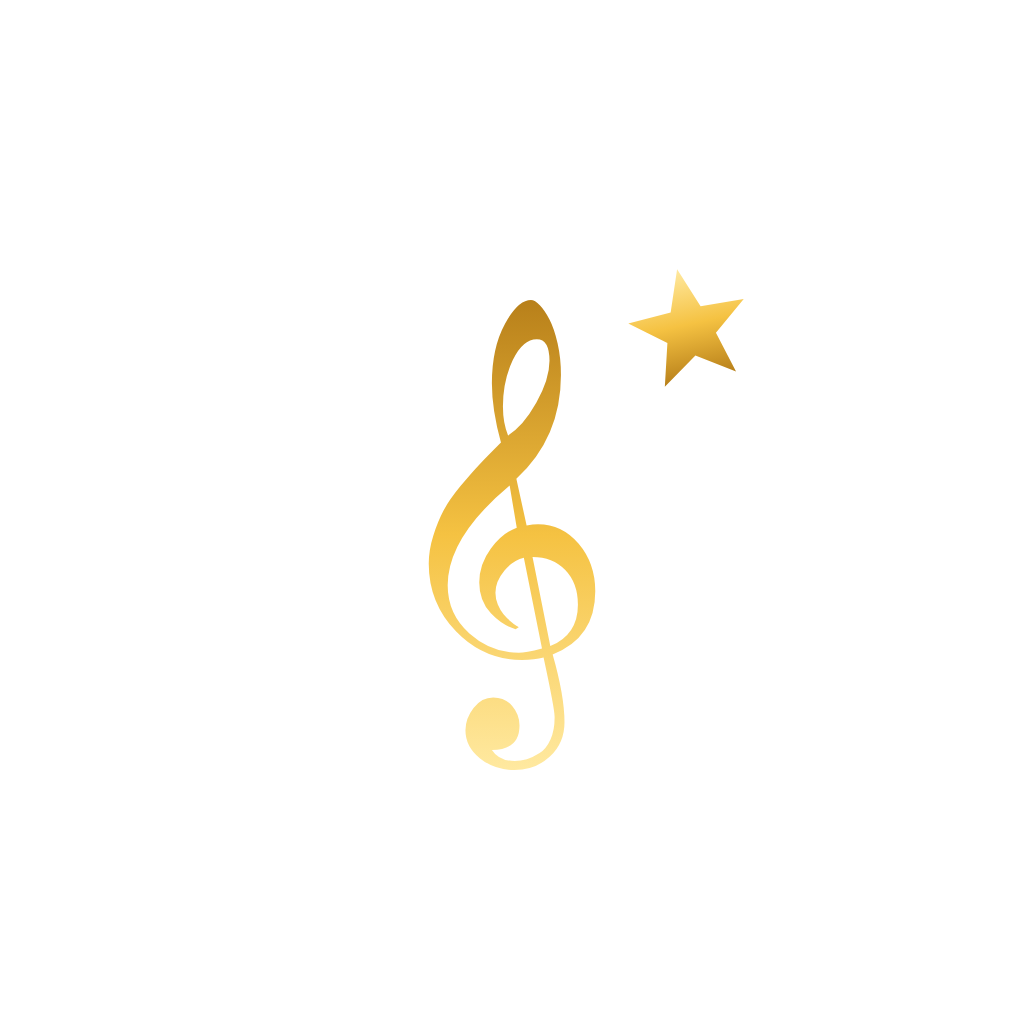
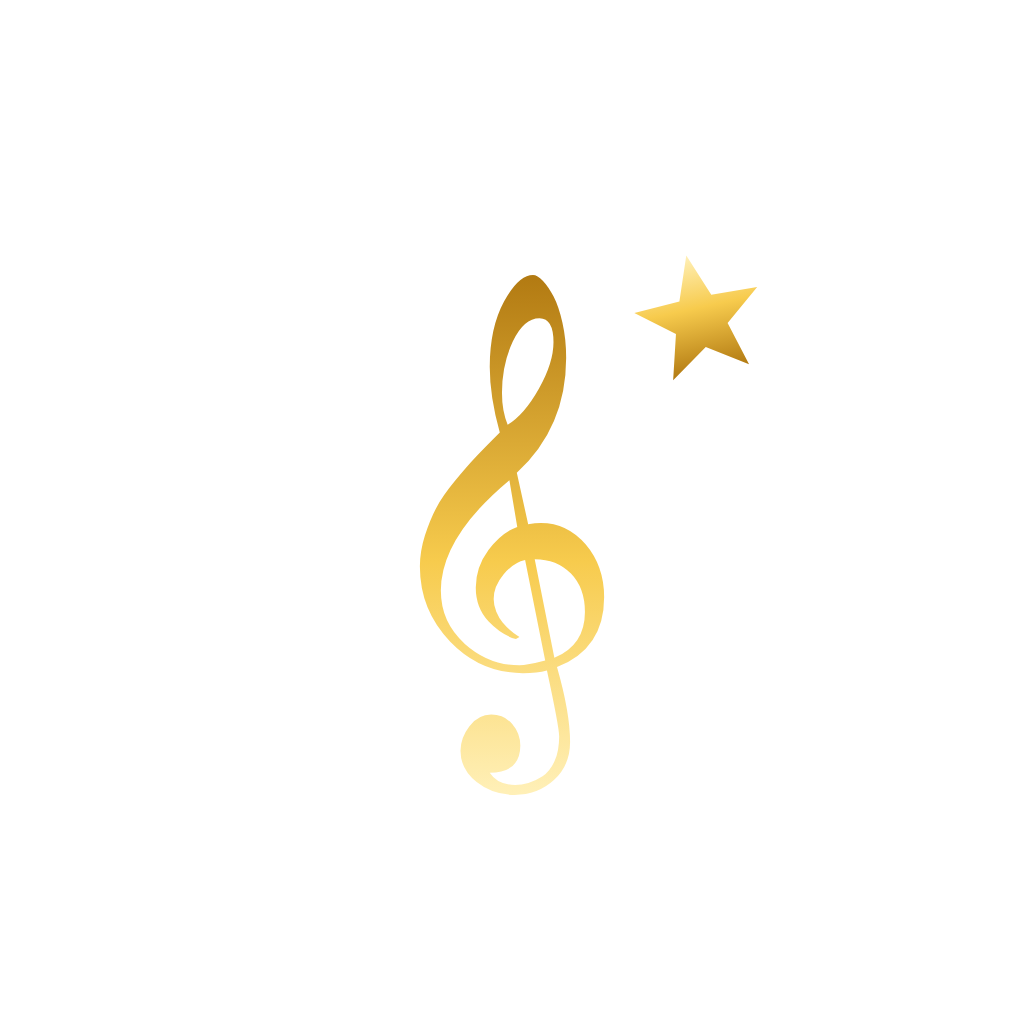
Clan music: capa e ícone dourado e preto, nova tela inicial com abas, ações rápidas, gravar ideia e fases das músicas
Claude-Session: https://claude.ai/code/session_01LArP6XDCS92Gp9j3nmqKYc

diff --git a/musica/index.html b/musica/index.html
@@ -4,16 +4,16 @@
 <meta charset="utf-8">
 <title>Clan music</title>
 <meta name="viewport" content="width=device-width, initial-scale=1, viewport-fit=cover">
-<link rel="manifest" href="manifest.webmanifest"><link rel="icon" href="icon.svg"><link rel="apple-touch-icon" href="icons/apple-touch-icon.png"><meta name="theme-color" content="#F7F4FC">
+<link rel="manifest" href="manifest.webmanifest"><link rel="icon" href="icon.svg"><link rel="apple-touch-icon" href="icons/apple-touch-icon.png"><meta name="theme-color" content="#09090B">
 
 <style>
 @font-face{font-family:"Bricolage";src:url(fonts/bricolage-grotesque-latin-wght-normal.woff2) format("woff2");font-weight:200 800;font-display:swap}
 @font-face{font-family:"JBMono";src:url(fonts/jetbrains-mono-latin-400-normal.woff2) format("woff2");font-weight:400;font-display:swap}
 @font-face{font-family:"JBMono";src:url(fonts/jetbrains-mono-latin-700-normal.woff2) format("woff2");font-weight:700;font-display:swap}
-:root{--bg:#F7F4FC;--card:#FFFFFF;--ink:#1A1030;--mute:#6A6285;--line:#E4DDF2;--chord:#8A4F00;--acc:#3B1A7A;--accT:#FFFFFF;--hl:#F5C242;--hlT:#2A1A00;--rec:#E5484D;--danger:#C0322F;
+:root{--bg:#FAF7EF;--card:#FFFFFF;--ink:#14110A;--mute:#6D6552;--line:#E9E1CB;--chord:#8A5A00;--acc:#14110A;--accT:#F5C242;--hl:#F5C242;--hlT:#2A1A00;--rec:#E5484D;--danger:#C0322F;
 --ui:"Bricolage",system-ui,-apple-system,"Segoe UI",Roboto,sans-serif;--mono:"JBMono",ui-monospace,Menlo,Consolas,monospace;
 box-sizing:border-box;padding-top:env(safe-area-inset-top,0px)}
-@media (prefers-color-scheme:dark){:root{--bg:#0C0615;--card:#171028;--ink:#F3EEFF;--mute:#A79BC4;--line:#2E2250;--chord:#F5C242;--acc:#F5C242;--accT:#1A1030;--rec:#FF6B70;--danger:#FF8A80}}
+@media (prefers-color-scheme:dark){:root{--bg:#09090B;--card:#151417;--ink:#F6F1E4;--mute:#A39C8A;--line:#2A2619;--chord:#F5C242;--acc:#F5C242;--accT:#14110A;--rec:#FF6B70;--danger:#FF8A80}}
 *{box-sizing:border-box;-webkit-tap-highlight-color:transparent}
 html,body{margin:0;background:var(--bg);color:var(--ink);font:400 16px/1.45 var(--ui)}
 #app{max-width:620px;margin:0 auto;padding:0 16px 120px}
@@ -129,18 +129,18 @@ details.card2>summary{cursor:pointer;list-style:none}details.card2>summary::-web
 .code2{font:700 24px var(--mono);text-align:center;padding:16px 8px;margin:10px 0;background:var(--bg);border:1px dashed var(--line);border-radius:12px;word-break:break-all;user-select:all}
 
 /* visual 2.0 */
-body{background:radial-gradient(120% 60% at 50% -10%,color-mix(in srgb,var(--acc) 9%,transparent),transparent 60%) no-repeat,var(--bg)}
+body{background:var(--bg)}
 .brand{display:flex;align-items:center;gap:10px;font-size:31px;white-space:nowrap}.brand .mk{height:40px;width:auto;flex:0 0 auto;filter:drop-shadow(0 2px 6px rgba(245,194,66,.35))}
 .songs{display:flex;flex-direction:column;gap:10px}
-.songs>.song,.rrow>.song{background:var(--card);border:1px solid var(--line);border-radius:18px;padding:12px 14px;box-shadow:0 1px 2px rgba(40,10,90,.05)}
+.songs>.song,.rrow>.song{background:var(--card);border:1px solid var(--line);border-radius:18px;padding:12px 14px;box-shadow:0 1px 2px rgba(0,0,0,.05)}
 .song.now{border-color:var(--hl)}
 .key{transform:none;border-radius:11px;background:linear-gradient(135deg,#FFE9A0,#F5C242);box-shadow:inset 0 -2px 0 rgba(120,70,0,.18);min-width:52px}
-.seg{border-radius:16px;box-shadow:0 1px 2px rgba(40,10,90,.05)}.seg button{border-radius:12px;padding:10px 4px}
-.card2{background:var(--card);border:1px solid var(--line);border-radius:20px;padding:16px;margin:12px 0;box-shadow:0 1px 2px rgba(40,10,90,.05)}
+.seg{border-radius:16px;box-shadow:0 1px 2px rgba(0,0,0,.05)}.seg button{border-radius:12px;padding:10px 4px}
+.card2{background:var(--card);border:1px solid var(--line);border-radius:20px;padding:16px;margin:12px 0;box-shadow:0 1px 2px rgba(0,0,0,.05)}
 .card2.hero{background:linear-gradient(160deg,color-mix(in srgb,var(--hl) 16%,var(--card)),var(--card) 60%)}
-.cta{background:linear-gradient(135deg,var(--acc),color-mix(in srgb,var(--acc) 70%,#7B3FE4));box-shadow:0 12px 30px rgba(59,26,122,.35)}
+.cta{background:var(--acc);color:var(--accT);bottom:calc(92px + env(safe-area-inset-bottom,0px));box-shadow:0 12px 30px rgba(0,0,0,.35)}
 @media (prefers-color-scheme:dark){.cta{background:linear-gradient(135deg,#FFE9A0,#F5C242);box-shadow:0 12px 30px rgba(0,0,0,.5)}}
-.nav{left:10px;right:10px;bottom:calc(8px + env(safe-area-inset-bottom,0px));border:1px solid var(--line);border-radius:22px;padding-bottom:0;box-shadow:0 10px 30px rgba(40,10,90,.18);max-width:600px;margin:0 auto;overflow:hidden}
+.nav{left:10px;right:10px;bottom:calc(8px + env(safe-area-inset-bottom,0px));border:1px solid var(--line);border-radius:22px;padding-bottom:0;box-shadow:0 10px 30px rgba(0,0,0,.18);max-width:600px;margin:0 auto;overflow:hidden}
 .nav button.on::before{top:0;height:3px;background:var(--hl)}
 .savebar{bottom:calc(84px + env(safe-area-inset-bottom,0px))}
 button.pri{box-shadow:0 4px 14px color-mix(in srgb,var(--acc) 30%,transparent)}button:disabled{opacity:.45}
@@ -154,6 +154,24 @@ button.pri{box-shadow:0 4px 14px color-mix(in srgb,var(--acc) 30%,transparent)}b
 .pbody pre.view{border:0;background:none;padding:0;margin:0;min-height:0;line-height:1.55;white-space:pre}
 .pctl{padding:10px 12px calc(10px + env(safe-area-inset-bottom,0px));border-top:1px solid var(--line);background:var(--card)}
 .pctl .row{gap:6px;justify-content:space-between}.pctl .ic{min-width:44px;min-height:44px;font:700 15px var(--ui)}.pctl input[type=range]{flex:1;padding:0;border:0;background:none}
+
+/* início e topo preto e dourado */
+.hero2{margin:0 -16px 14px;padding:calc(18px + env(safe-area-inset-top,0px)) 18px 18px;background:radial-gradient(90% 120% at 100% 0,rgba(245,194,66,.28),transparent 60%),linear-gradient(160deg,#050505,#171106);color:#F7D774;border-radius:0 0 28px 28px}
+.hero2 .brand{color:#F7D774;font-size:27px}.hero2 .hi{margin:12px 0 10px;font:700 22px/1.2 var(--ui);color:#FFF6DC}
+.hero2 .stats{display:flex;gap:18px;color:#CDBE94;font-size:14px}.hero2 .stats b{color:#F7D774;font:700 18px var(--mono);margin-right:3px}
+button.gh{background:rgba(255,255,255,.07);border-color:rgba(245,194,66,.35);color:#F7D774}.hero2 .dot{border-color:#14110A}
+.ov{display:block;color:var(--mute);font-size:13px;margin-bottom:8px;letter-spacing:.2px}
+.cont .big{display:flex;flex-direction:column;align-items:flex-start;gap:2px;width:100%;text-align:left;border:0;background:none;padding:0}.cont .big b{font-size:26px;line-height:1.15}.cont .big span{color:var(--mute);font-size:15px}
+.chips2{display:flex;gap:6px;flex-wrap:wrap;margin-top:10px}.chips2 span{font-size:13px;padding:4px 10px;border-radius:999px;background:var(--bg);border:1px solid var(--line);color:var(--mute)}.chips2 span.ok{color:var(--ink);border-color:var(--hl);background:color-mix(in srgb,var(--hl) 20%,var(--card))}
+.qa{display:grid;grid-template-columns:1fr 1fr;gap:10px;margin:12px 0}.qa button{display:flex;flex-direction:column;align-items:flex-start;gap:2px;text-align:left;padding:14px;border-radius:20px;min-height:104px}.qa button span{line-height:0;margin-bottom:8px}.qa button span .i{width:26px;height:26px}.qa b{font-size:16px}.qa small{color:var(--mute);font-size:13px}
+.qa button.gold{background:linear-gradient(145deg,#FFE9A0,#F5C242 60%,#D9A21F);border-color:#D9A21F;color:#2A1A00}.qa button.gold small{color:#5A3E00}
+button{white-space:nowrap}
+h2.sec{font:700 18px var(--ui);margin:20px 2px 8px}
+.fch{margin:0 0 10px;flex-wrap:nowrap;overflow-x:auto;padding-bottom:2px}.fch button{white-space:nowrap;padding:8px 14px;font-size:14px}.fch button.on{background:var(--acc);color:var(--accT);border-color:var(--acc);font-weight:700}
+.fz{display:inline-block;width:8px;height:8px;border-radius:50%;margin:0 5px 0 0;background:var(--mute)}.fz-ideia{background:#4DA3FF}.fz-compondo{background:#F5C242}.fz-pronta{background:#34C27A}
+.hn{max-width:560px}.pbar{bottom:calc(74px + env(safe-area-inset-bottom,0px))}
+#app:has(.hn){padding-bottom:150px}#app:has(#pbar){padding-bottom:330px}
+.hn button.on::before{background:var(--hl)}
 </style>
 </head>
 <body>
@@ -225,43 +243,65 @@ const IC={
  audio:'<svg class="i" viewBox="0 0 24 24"><path d="M6 4v16M12 4v16M18 4v16"/><circle cx="6" cy="9" r="2" fill="var(--card)"/><circle cx="12" cy="15" r="2" fill="var(--card)"/><circle cx="18" cy="8" r="2" fill="var(--card)"/></svg>'};
 const SRok=!!(window.SpeechRecognition||window.webkitSpeechRecognition);
 
-function rows(){const f=songs.filter(s=>!s.outro).filter(s=>((s.title||'')+' '+(s.artist||'')).toLowerCase().includes(q.toLowerCase())).sort((a,b)=>b.upd-a.upd);
+const MARK='<svg class="mk" viewBox="0 0 560 1200" aria-hidden="true"><defs><linearGradient id="mg" x1="0" y1="0" x2="0" y2="1"><stop offset="0" stop-color="#FFF0B8"/><stop offset=".5" stop-color="#F7CB4D"/><stop offset="1" stop-color="#B27A12"/></linearGradient></defs><g transform="translate(-100,920) scale(1,-1)" fill="url(#mg)"><path d="M434 2Q464 -103 464 -170Q464 -223 427.0 -257.0Q390 -291 337 -291Q287 -291 250.0 -261.5Q213 -232 213 -190Q213 -160 233.5 -133.5Q254 -107 283.5 -107.0Q313 -107 331.5 -128.5Q350 -150 350 -178Q350 -240 280 -240Q298 -268 338 -268Q353 -268 368.5 -263.5Q384 -259 401.0 -248.0Q418 -237 428.5 -213.5Q439 -190 439 -157Q439 -136 411 -6Q389 -12 356 -12Q259 -12 189.5 60.0Q120 132 120 232Q120 267 131.5 303.0Q143 339 157.5 366.5Q172 394 200.5 428.5Q229 463 248.5 483.5Q268 504 303 539Q280 621 280 689Q280 779 313.0 839.5Q346 900 379 900Q389 900 401.5 887.0Q414 874 426.0 851.0Q438 828 446.5 790.5Q455 753 455 710Q455 551 342 447L368 329Q384 332 397 332Q458 332 500.0 282.5Q542 233 542 162Q542 44 434 2ZM426 746Q426 801 394 801Q358 801 333.0 748.0Q308 695 308 630Q308 588 321 557Q359 580 392.5 639.5Q426 699 426 746ZM498 128Q498 183 466.0 216.0Q434 249 383 249L428 23Q498 52 498 128ZM407 17 361 247Q334 241 311.5 214.0Q289 187 289 158Q289 143 295.0 128.5Q301 114 309.5 104.0Q318 94 327.0 86.0Q336 78 342.0 74.5Q348 71 348 71L340 66Q307 75 277.5 106.0Q248 137 248 184Q248 231 277.5 270.5Q307 310 343 323L325 430Q168 299 168 177Q168 104 223.0 55.0Q278 6 348 6Q365 6 407 17Z"/></g></svg>';
+IC.home='<svg class="i" viewBox="0 0 24 24"><path d="M4 11l8-7 8 7v9h-5v-6H9v6H4z"/></svg>';
+IC.notes='<svg class="i" viewBox="0 0 24 24"><path d="M9 18V6l10-2v12"/><circle cx="6.5" cy="18" r="2.5"/><circle cx="16.5" cy="16" r="2.5"/></svg>';
+IC.mic2='<svg class="i" viewBox="0 0 24 24"><rect x="9" y="3" width="6" height="11" rx="3"/><path d="M5 11a7 7 0 0 0 14 0M12 18v3"/></svg>';
+const FASES=[['ideia','Ideia'],['compondo','Compondo'],['pronta','Pronta']];let fq='';
+const faseNome=f=>(FASES.find(x=>x[0]===f)||[,''])[1];
+const hello=()=>{const h=new Date().getHours();return h<5?'Boa madrugada':h<12?'Bom dia':h<18?'Boa tarde':'Boa noite'};
+const ago=t=>{const m=Math.round((Date.now()-t)/60000);return m<2?'agora há pouco':m<60?'há '+m+' min':m<1440?'há '+Math.round(m/60)+' h':m<2880?'ontem':'há '+Math.round(m/1440)+' dias'};
+function quickIdea(){const d=new Date(),s=newSong('Ideia '+d.toLocaleDateString('pt-BR',{day:'2-digit',month:'2-digit'})+' '+d.toTimeString().slice(0,5),'');s.fase='ideia';s.auto=true;songs.push(s);put(s);cur=s;tab='estudio';shift=0;edit=false;song();setTimeout(()=>{try{studioRec()}catch(e){}},60)}
+function newBlank(){cur=newSong('','');cur.fase='compondo';songs.push(cur);put(cur);tab='cifra';shift=0;edit=true;song()}
+function openSong(id,t){cur=songs.find(s=>s.id===id);tab=t||'cifra';shift=0;edit=!(cur.cifra||'').trim();song()}
+const songRow=s=>`<button class="song" data-id="${s.id}"><span class="key">${esc(s.key||'C')}${s.mode==='m'?'m':''}</span><span class="info"><b>${esc(s.title)||'Sem título'}</b><small>${esc(s.artist)||'Sem artista'}${s.fase?' · <i class="fz fz-'+s.fase+'"></i>'+faseNome(s.fase):''}</small></span>${s.audios.length?`<span class="tag">${s.audios.length} ${s.audios.length===1?'faixa':'faixas'}</span>`:''}</button>`;
+function bindRows(){document.querySelectorAll('.song[data-id]').forEach(b=>b.onclick=()=>openSong(b.dataset.id))}
+function rows(){const f=songs.filter(s=>!s.outro).filter(s=>!fq||s.fase===fq).filter(s=>((s.title||'')+' '+(s.artist||'')).toLowerCase().includes(q.toLowerCase())).sort((a,b)=>b.upd-a.upd);
  const box=$('#rows');if(!box)return;
- box.innerHTML=f.map(s=>`<button class="song" data-id="${s.id}"><span class="key">${esc(s.key||'C')}${s.mode==='m'?'m':''}</span><span class="info"><b>${esc(s.title)||'Sem título'}</b><small>${esc(s.artist)||'Sem artista'}</small></span>${s.audios.length?`<span class="tag">${s.audios.length} ${s.audios.length===1?'faixa':'faixas'}</span>`:''}</button>`).join('')||(songs.length?'<p class="empty">Nada encontrado para essa busca.</p>':'');
- document.querySelectorAll('.song').forEach(b=>b.onclick=()=>{cur=songs.find(s=>s.id===b.dataset.id);tab='cifra';shift=0;edit=!(cur.cifra||'').trim();song()})}
+ box.innerHTML=f.map(songRow).join('')||(songs.some(s=>!s.outro)?'<p class="empty">Nada encontrado.</p>':'');bindRows()}
+function iniHome(my){const S=setList(),L=[...my].sort((a,b)=>b.upd-a.upd),c=L[0];
+ const part=c?[['Cifra',(c.cifra||'').trim()],['Letra',(c.letra||'').trim()],['Gravação',c.audios.length]]:[];
+ const andamento=L.filter(s=>s.fase==='compondo'&&s!==c).slice(0,4),ideias=L.filter(s=>s.fase==='ideia'&&s!==c).slice(0,4);
+ return `${c?`<section class="card2 cont"><small class="ov">Continuar de onde parou</small><button class="big" data-id="${c.id}"><b>${esc(c.title)||'Sem título'}</b><span>${esc(c.artist)||'Sem artista'} · ${esc(c.key||'C')}${c.mode==='m'?'m':''} · ${ago(c.upd)}</span></button><div class="chips2">${part.map(x=>`<span class="${x[1]?'ok':''}">${x[1]?'✓':'○'} ${x[0]}${x[0]==='Gravação'&&x[1]>1?'s':''}</span>`).join('')}${c.fase?`<span class="fase"><i class="fz fz-${c.fase}"></i>${faseNome(c.fase)}</span>`:''}</div><div class="row" style="margin-top:12px"><button class="pri" data-id="${c.id}" style="flex:1">Abrir</button><button id="cE" style="flex:1">Gravar</button><button id="cL" style="flex:1">Letra</button></div></section>`:''}
+ <div class="qa"><button id="qn"><span>${IC.add}</span><b>Nova música</b><small>Cifra e letra</small></button><button id="qi" class="gold"><span>${IC.mic2}</span><b>Gravar ideia</b><small>Já começa a gravar</small></button><button id="qm"><span>${IC.imp}</span><b>Trazer músicas</b><small>Áudios e letras</small></button><button id="qc"><span>${IC.ext}</span><b>Cifra de outro artista</b><small>Cifra Club</small></button></div>
+ ${S.length?`<section class="card2"><div class="row" style="align-items:center"><b style="flex:1;font-size:17px">Set do show</b><span class="tag">${S.length} ${S.length===1?'música':'músicas'}</span></div><p class="hint" style="margin:6px 0 10px">${S.slice(0,3).map(s=>esc(s.title)||'Sem título').join(' · ')}${S.length>3?' …':''}</p><div class="row"><button class="pri" id="qp" style="flex:1">▶ Abrir no palco</button><button id="qr" style="flex:1">Editar set</button></div></section>`:''}
+ ${andamento.length?`<h2 class="sec">Em andamento</h2><div class="songs">${andamento.map(songRow).join('')}</div>`:''}
+ ${ideias.length?`<h2 class="sec">Ideias para desenvolver</h2><div class="songs">${ideias.map(songRow).join('')}</div>`:''}
+ ${my.length?'':`<div class="empty" style="padding:26px 8px"><h2>Sua biblioteca começa aqui</h2><p>Grave uma ideia, escreva a cifra ou traga as músicas que você já tem.</p></div>`}`}
 function list(){cur=null;mixStop();
- const my=songs.filter(s=>!s.outro),nt=my.reduce((n,s)=>n+s.audios.length,0);
- app.innerHTML=`<header class="top"><div class="row"><h1 class="brand"><svg class="mk" viewBox="0 0 560 1200" aria-hidden="true"><defs><linearGradient id="mg" x1="0" y1="0" x2="0" y2="1"><stop offset="0" stop-color="#FFE9A0"/><stop offset=".55" stop-color="#F5C242"/><stop offset="1" stop-color="#B8801A"/></linearGradient></defs><g transform="translate(-100,920) scale(1,-1)" fill="url(#mg)"><path d="M434 2Q464 -103 464 -170Q464 -223 427.0 -257.0Q390 -291 337 -291Q287 -291 250.0 -261.5Q213 -232 213 -190Q213 -160 233.5 -133.5Q254 -107 283.5 -107.0Q313 -107 331.5 -128.5Q350 -150 350 -178Q350 -240 280 -240Q298 -268 338 -268Q353 -268 368.5 -263.5Q384 -259 401.0 -248.0Q418 -237 428.5 -213.5Q439 -190 439 -157Q439 -136 411 -6Q389 -12 356 -12Q259 -12 189.5 60.0Q120 132 120 232Q120 267 131.5 303.0Q143 339 157.5 366.5Q172 394 200.5 428.5Q229 463 248.5 483.5Q268 504 303 539Q280 621 280 689Q280 779 313.0 839.5Q346 900 379 900Q389 900 401.5 887.0Q414 874 426.0 851.0Q438 828 446.5 790.5Q455 753 455 710Q455 551 342 447L368 329Q384 332 397 332Q458 332 500.0 282.5Q542 233 542 162Q542 44 434 2ZM426 746Q426 801 394 801Q358 801 333.0 748.0Q308 695 308 630Q308 588 321 557Q359 580 392.5 639.5Q426 699 426 746ZM498 128Q498 183 466.0 216.0Q434 249 383 249L428 23Q498 52 498 128ZM407 17 361 247Q334 241 311.5 214.0Q289 187 289 158Q289 143 295.0 128.5Q301 114 309.5 104.0Q318 94 327.0 86.0Q336 78 342.0 74.5Q348 71 348 71L340 66Q307 75 277.5 106.0Q248 137 248 184Q248 231 277.5 270.5Q307 310 343 323L325 430Q168 299 168 177Q168 104 223.0 55.0Q278 6 348 6Q365 6 407 17Z"/></g></svg>Clan music</h1>${inst?'<button id="in">Instalar</button>':''}<button class="ic" id="cl0" aria-label="Nuvem">${IC.cloud}<span id="cld" class="dot ${cl.on?'on':''}"></span></button><button class="ic" id="im0" aria-label="Trazer minhas músicas">${IC.imp}</button><button class="ic" id="bk" aria-label="Backup e restauração">${IC.bk}</button></div>
- <p class="stat">${my.length?my.length+(my.length===1?' música':' músicas')+(nt?' · '+nt+(nt===1?' faixa gravada':' faixas gravadas'):''):'Sua biblioteca começa aqui'}</p><div class="staff" aria-hidden="true"></div></header>
- <div class="seg" role="tablist"><button data-v="lib" class="${hv==='lib'?'on':''}">Músicas</button><button data-v="rep" class="${hv==='rep'?'on':''}">Repertório</button><button data-v="play" class="${hv==='play'?'on':''}">Tocar</button></div>
- ${hv==='play'?playHome():hv==='rep'?repHome():''}
- ${hv!=='lib'?'':late()?'<div class="alert"><span><b>Faça uma cópia de segurança.</b> A última tem mais de uma semana.</span><button id="bk2">Fazer agora</button></div>':''}
- ${hv!=='lib'?'':`
-${my.length?`<input id="q" type="search" placeholder="Buscar música ou artista" value="${esc(q)}" aria-label="Buscar">`:''}
- <div class="songs" id="rows"></div>
- ${my.length?'':'<div class="empty"><div class="staff big" aria-hidden="true"></div><h2>Nenhuma música ainda</h2><p>Escreva a cifra, guarde a letra e grave voz e violão em faixas separadas.</p></div>'}
- <button class="cta" id="new">+ Nova música</button>`}`;
- document.querySelectorAll('.seg button').forEach(b=>b.onclick=()=>{hv=b.dataset.v;list()});$('#im0').onclick=imp;$('#cl0').onclick=nuvem;
- if(hv==='rep'){$('#bk').onclick=backup;repBind();return}
- if(hv==='play'){$('#bk').onclick=backup;if($('#bk2'))$('#bk2').onclick=backup;playBind();return}
+ const my=songs.filter(s=>!s.outro),nt=my.reduce((n,s)=>n+s.audios.length,0),S=setList();
+ const cnt=f=>my.filter(s=>s.fase===f).length;
+ const body=hv==='ini'?iniHome(my):hv==='play'?playHome():hv==='rep'?repHome():`${late()?'<div class="alert"><span><b>Faça uma cópia de segurança.</b> A última tem mais de uma semana.</span><button id="bk2">Fazer agora</button></div>':''}
+ ${my.length?`<div class="chips fch"><button data-f="" class="${!fq?'on':''}">Todas ${my.length}</button>${FASES.map(f=>`<button data-f="${f[0]}" class="${fq===f[0]?'on':''}">${f[1]}s ${cnt(f[0])}</button>`).join('')}</div><input id="q" type="search" placeholder="Buscar música ou artista" value="${esc(q)}" aria-label="Buscar">`:''}
+ <div class="songs" id="rows"></div>${my.length?'':'<div class="empty"><div class="staff big" aria-hidden="true"></div><h2>Nenhuma música ainda</h2><p>Escreva a cifra, guarde a letra e grave voz e violão em faixas separadas.</p></div>'}
+ <button class="cta" id="new">+ Nova música</button>`;
+ app.innerHTML=`<header class="hero2"><div class="row"><h1 class="brand">${MARK}Clan music</h1>${inst?'<button id="in" class="gh">Instalar</button>':''}<button class="ic gh" id="cl0" aria-label="Nuvem">${IC.cloud}<span id="cld" class="dot ${cl.on?'on':''}"></span></button><button class="ic gh" id="im0" aria-label="Trazer minhas músicas">${IC.imp}</button><button class="ic gh" id="bk" aria-label="Backup e restauração">${IC.bk}</button></div>
+ <p class="hi">${hv==='ini'?hello()+', compositor.':hv==='lib'?'Suas músicas':hv==='rep'?'Repertório':'Ouvir'}</p><div class="stats"><span><b>${my.length}</b> ${my.length===1?'música':'músicas'}</span><span><b>${nt}</b> ${nt===1?'gravação':'gravações'}</span><span><b>${S.length}</b> no set</span></div></header>
+ ${body}
+ <nav class="nav hn" aria-label="Seções">${[['ini','Início',IC.home],['lib','Músicas',IC.notes],['rep','Repertório',IC.rep],['play','Tocar',IC.play]].map(t=>`<button data-h="${t[0]}" class="${hv===t[0]?'on':''}" aria-label="${t[1]}">${t[2]}<span>${t[1]}</span></button>`).join('')}</nav>`;
+ document.querySelectorAll('.hn button').forEach(b=>b.onclick=()=>{hv=b.dataset.h;q='';list();window.scrollTo(0,0)});$('#im0').onclick=imp;$('#cl0').onclick=nuvem;$('#bk').onclick=backup;if($('#bk2'))$('#bk2').onclick=backup;if(inst)$('#in').onclick=()=>{inst.prompt();inst=null;list()};
+ if(hv==='play'){playBind();return}
+ if(hv==='rep'){repBind();return}
+ if(hv==='ini'){bindRows();document.querySelectorAll('.cont .big,.cont .pri').forEach(b=>b.onclick=()=>openSong(b.dataset.id));const c=[...my].sort((a,b)=>b.upd-a.upd)[0];if($('#cE'))$('#cE').onclick=()=>openSong(c.id,'estudio');if($('#cL'))$('#cL').onclick=()=>openSong(c.id,'letra');
+  $('#qn').onclick=newBlank;$('#qi').onclick=quickIdea;$('#qm').onclick=imp;$('#qc').onclick=()=>{hv='rep';cifraImp()};if($('#qp'))$('#qp').onclick=()=>palco(0,setList());if($('#qr'))$('#qr').onclick=()=>{hv='rep';list()};return}
+ document.querySelectorAll('.fch button').forEach(b=>b.onclick=()=>{fq=b.dataset.f;list()});
  if($('#q'))$('#q').oninput=e=>{q=e.target.value;rows()};
- $('#new').onclick=()=>{cur={id:'s'+Date.now(),title:'',artist:'',key:'C',mode:'M',cifra:'',letra:'',audios:[],upd:Date.now()};songs.push(cur);put(cur);tab='cifra';shift=0;edit=true;song()};
- $('#bk').onclick=backup;if($('#bk2'))$('#bk2').onclick=backup;if(inst)$('#in').onclick=()=>{inst.prompt();inst=null;list()};
- rows()}
+ $('#new').onclick=newBlank;rows()}
 
 function setSv(t){const e=$('#sv');if(e)e.textContent=t}
 function song(){const s=cur;if(tab==='ouvir')tab='estudio';
  const tabs=[['cifra','Cifra'],['letra','Letra'],['estudio','Estúdio'],['campo','Campo'],['audio','Áudio']];
  app.innerHTML=`<header class="sh"><button class="ic" id="back" aria-label="Voltar">${IC.back}</button><div class="tt"><input id="ti" class="ti" placeholder="Título da música" value="${esc(s.title)}" aria-label="Título"><input id="ar" class="ar" placeholder="Artista" value="${esc(s.artist)}" aria-label="Artista"></div><div class="side"><button class="ic" id="del" aria-label="Excluir música">${IC.trash}</button><span id="sv" class="sv"></span></div></header>
- <div class="meta2"><label class="sel"><span>Tom</span><select id="ky">${N.map(n=>`<option ${n===s.key?'selected':''}>${n}</option>`).join('')}</select></label><label class="sel"><span>Modo</span><select id="md"><option value="M" ${s.mode==='M'?'selected':''}>Maior</option><option value="m" ${s.mode==='m'?'selected':''}>Menor</option></select></label></div>
+ <div class="meta2"><label class="sel"><span>Tom</span><select id="ky">${N.map(n=>`<option ${n===s.key?'selected':''}>${n}</option>`).join('')}</select></label><label class="sel"><span>Fase</span><select id="fs2"><option value="">—</option>${FASES.map(f=>`<option value="${f[0]}" ${s.fase===f[0]?'selected':''}>${f[1]}</option>`).join('')}</select></label><label class="sel"><span>Modo</span><select id="md"><option value="M" ${s.mode==='M'?'selected':''}>Maior</option><option value="m" ${s.mode==='m'?'selected':''}>Menor</option></select></label></div>
  ${s.outro?'<div class="alert"><span><b>Cifra de outro artista.</b> Está só no Repertório.</span><button id="tomain">Salvar na principal</button></div>':''}
  <div id="pane"></div>
  <nav class="nav" aria-label="Seções">${tabs.map(t=>`<button data-t="${t[0]}" class="${tab===t[0]?'on':''}" aria-label="${t[1]}">${IC[t[0]]}<span>${t[1]}</span></button>`).join('')}</nav>`;
- $('#back').onclick=()=>{stopSR();metStop();tunerStop();meterStop();mixStop();if(rec&&rec.state==='recording')rec.stop();else if(!s.title&&!s.cifra&&!s.letra&&!s.ouvido&&!s.audios.length){songs=songs.filter(x=>x!==s);delSong(s)}else flushAll();list()};
+ $('#back').onclick=()=>{stopSR();metStop();tunerStop();meterStop();mixStop();if(rec&&rec.state==='recording')rec.stop();else if((!s.title||s.auto)&&!s.cifra&&!s.letra&&!s.ouvido&&!s.audios.length){songs=songs.filter(x=>x!==s);delSong(s)}else flushAll();list()};
  $('#del').onclick=()=>twice($('#del'),()=>{stopSR();mixStop();if(rec&&rec.state==='recording')rec.stop();songs=songs.filter(x=>x!==s);delSong(s);toast('Música excluída');list()},'<span style="font:700 13px var(--ui)">Confirmar?</span>');
  if($('#tomain'))$('#tomain').onclick=()=>{s.outro=false;save();put(s);toast('Salva na aba principal');song()};
- $('#ti').oninput=e=>{s.title=e.target.value;save()};
+ $('#ti').oninput=e=>{s.title=e.target.value;s.auto=false;save()};
  $('#ar').oninput=e=>{s.artist=e.target.value;save()};
+ $('#fs2').onchange=e=>{s.fase=e.target.value;save()};
  $('#ky').onchange=e=>{s.key=e.target.value;shift=0;save();pane()};
  $('#md').onchange=e=>{s.mode=e.target.value;save();pane()};
  document.querySelectorAll('.nav button').forEach(b=>b.onclick=()=>{if(tab==='estudio'&&b.dataset.t!=='estudio'){tunerStop();if(!(rec&&rec.state==='recording')){metStop();if(srOn)stopSR()}}tab=b.dataset.t;if(tab!=='audio'&&!(rec&&rec.state==='recording'))mixStop();document.querySelectorAll('.nav button').forEach(x=>x.classList.toggle('on',x===b));pane()});
@@ -537,7 +577,7 @@ IC.next='<svg class="i" viewBox="0 0 24 24"><path d="M6 5v14l9-7zM17 5v14" fill=
 IC.prev='<svg class="i" viewBox="0 0 24 24"><path d="M18 5v14L9 12zM7 5v14" fill="currentColor"/><path d="M6.5 5v14"/></svg>';
 IC.shuf='<svg class="i" viewBox="0 0 24 24"><path d="M3 7h3c5 0 6 10 11 10h4M3 17h3c1.5 0 2.6-.8 3.5-2M14.5 9c.9-1.2 1.9-2 3.5-2h3M18 4l3 3-3 3M18 14l3 3-3 3"/></svg>';
 IC.rep='<svg class="i" viewBox="0 0 24 24"><path d="M4 11V9a3 3 0 0 1 3-3h13M17 3l3 3-3 3M20 13v2a3 3 0 0 1-3 3H4M7 21l-3-3 3-3"/></svg>';
-let hv='lib';
+let hv='ini';
 const norm=t=>(t||'').toLowerCase().normalize('NFD').replace(/[̀-ͯ]/g,'').replace(/[^a-z0-9]+/g,' ').trim();
 function nameOf(fn){let b=fn.replace(/\.[a-z0-9]{2,5}$/i,'').replace(/_/g,' ').replace(/^\d{1,3}\s*[-.)]\s*/,'').trim();let ar='',ti=b;const m=b.split(/\s+-\s+/);if(m.length>=2){ar=m[0].trim();ti=m.slice(1).join(' - ').trim()}return{title:ti||'Sem título',artist:ar}}
 const newSong=(t,a)=>({id:'s'+Date.now()+Math.random().toString(36).slice(2,6),title:t||'',artist:a||'',key:'C',mode:'M',cifra:'',letra:'',audios:[],upd:Date.now()});
